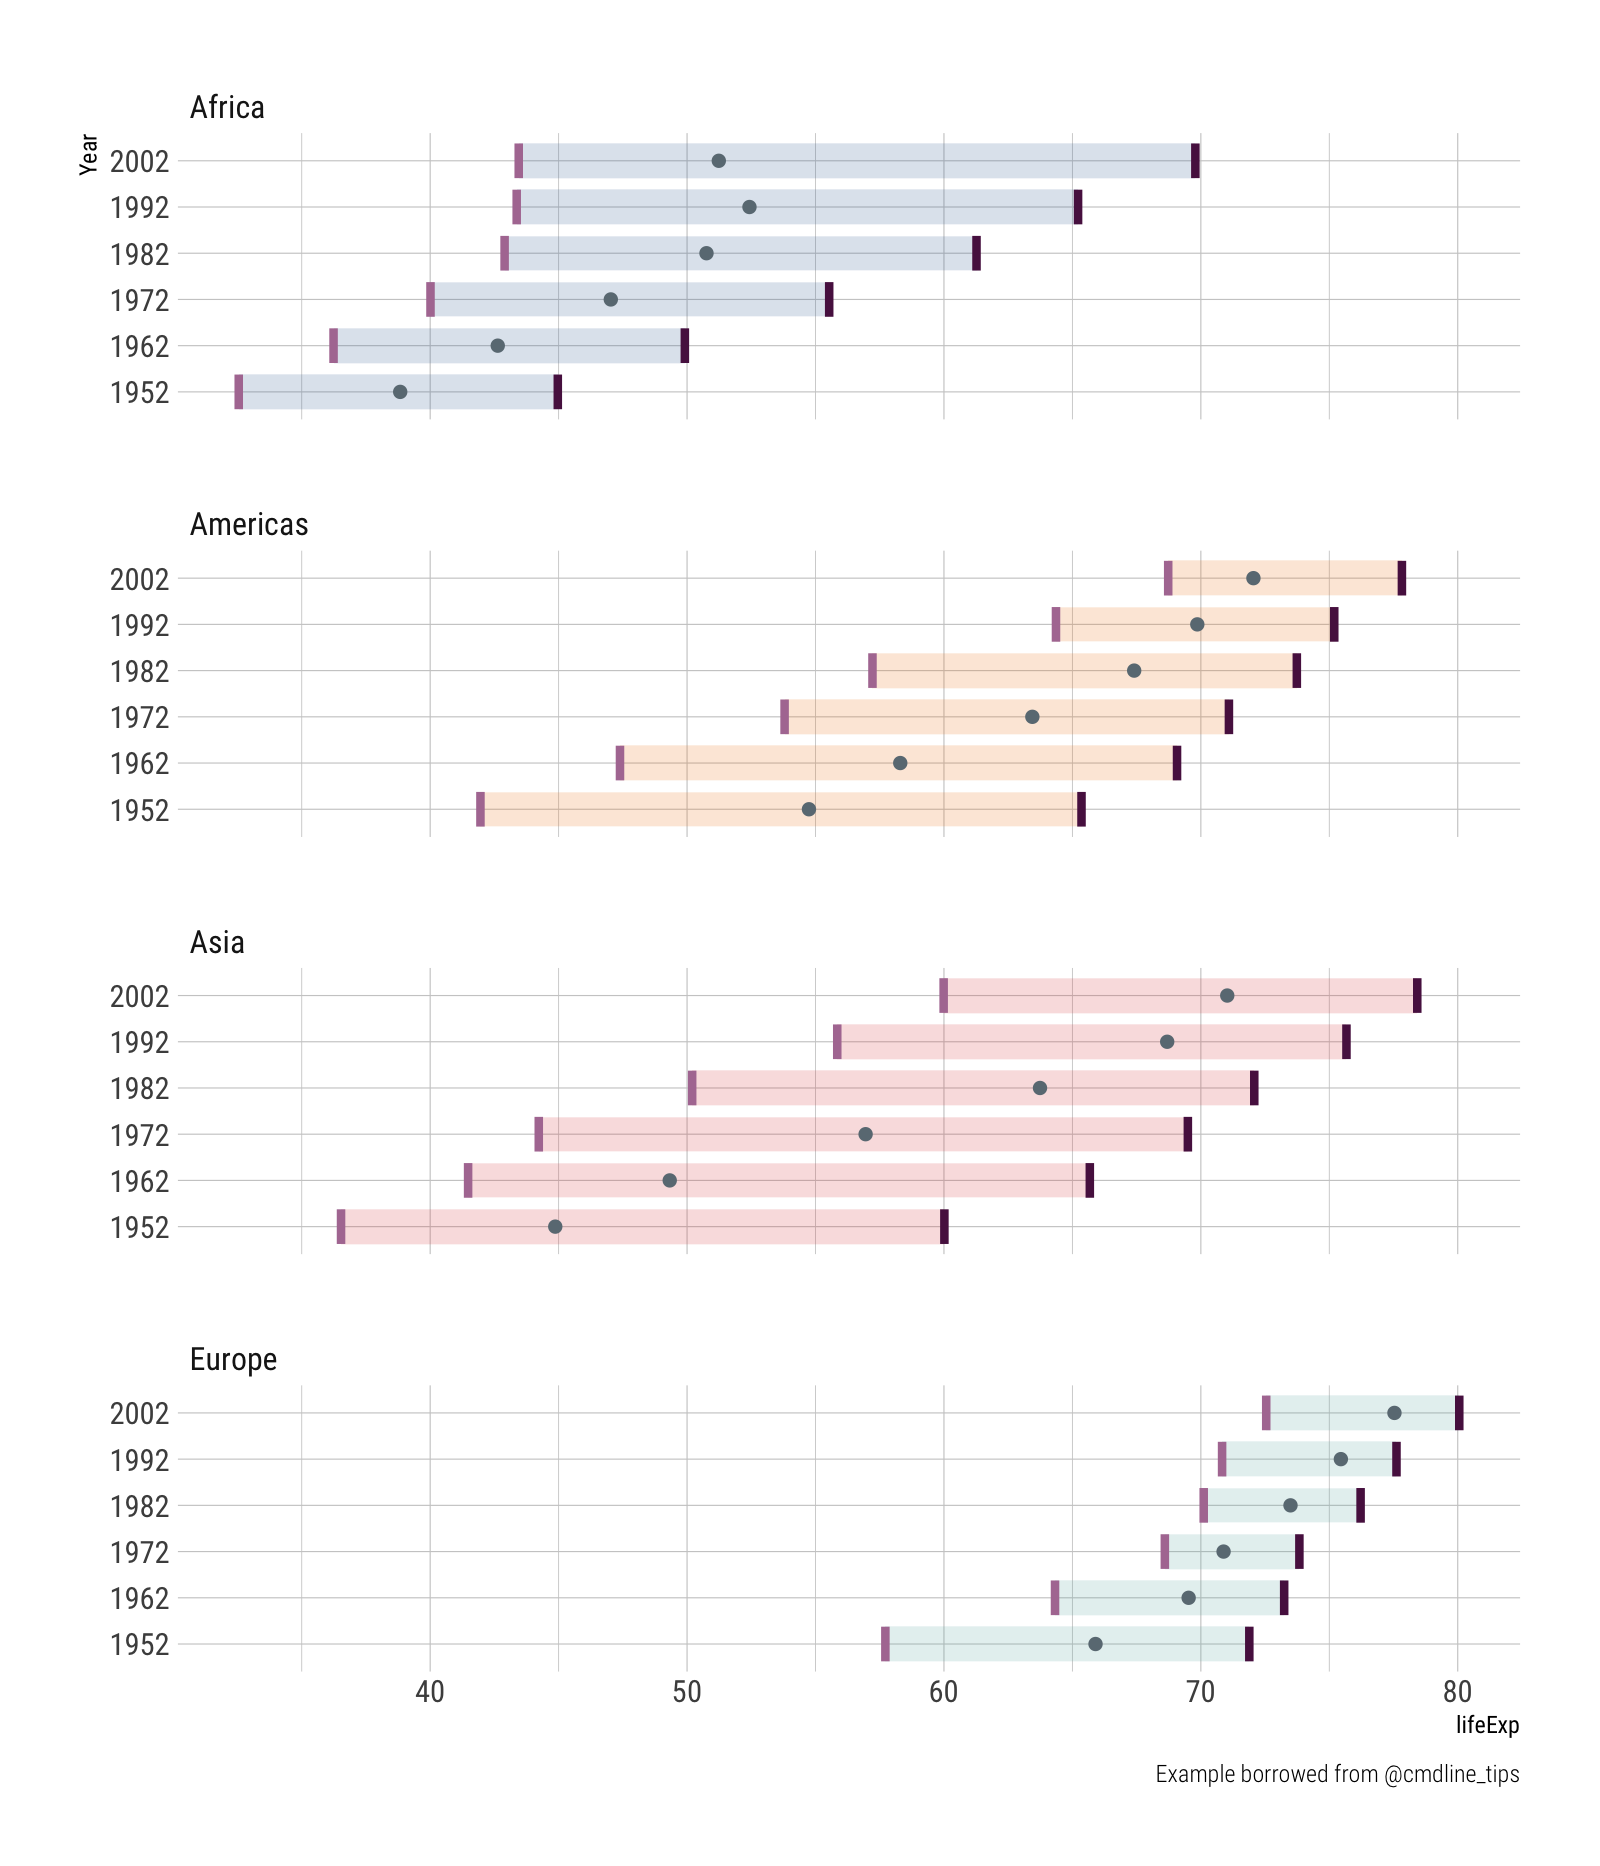
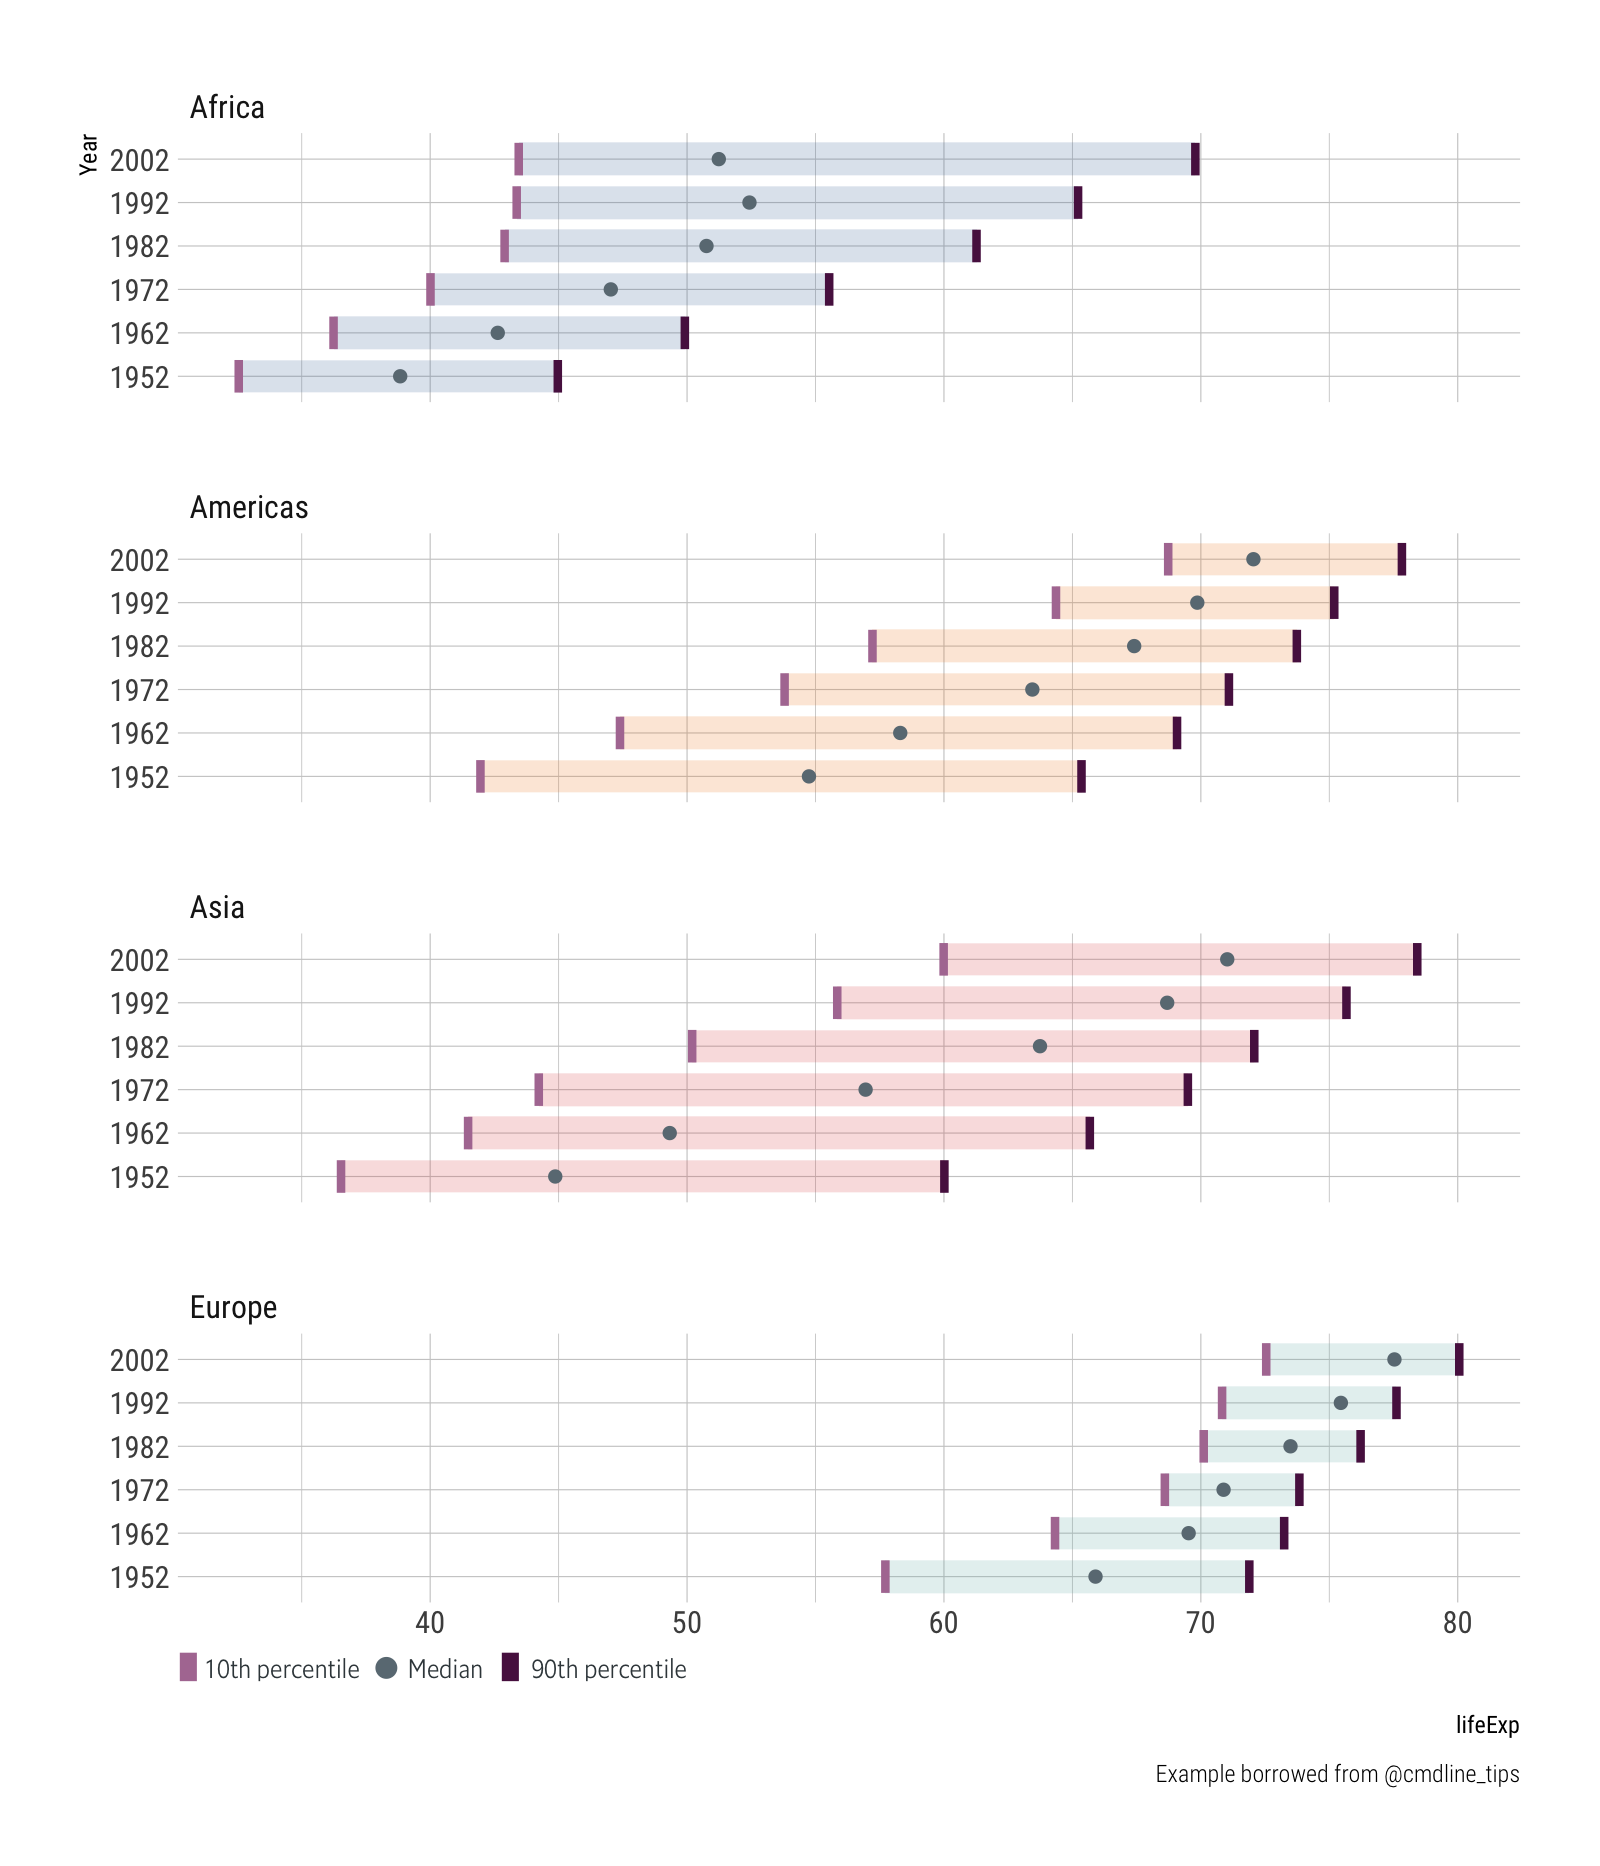
readme

diff --git a/README.md b/README.md
@@ -139,7 +139,17 @@ gapminder %>%
     x = "Year", caption = "Example borrowed from @cmdline_tips"
   ) +
   facet_wrap(~continent, nrow = 4) +
-  theme_ipsum_rc()
+  theme_ipsum_rc() -> gmgg
+
+grid.newpage()
+gmgg %>% 
+  add_econodist_legend(
+    econodist_legend_grob(
+      tenth_col = "#b07aa1", ninetieth_col = "#591a4f"
+    ), 
+    below = "axis-b-1-4"
+  ) %>% 
+  grid.draw()
 ```
 
 <img src="README_files/figure-gfm/gm-1.png" width="800" />
@@ -148,8 +158,8 @@ gapminder %>%
 
 | Lang | \# Files |  (%) | LoC |  (%) | Blank lines | (%) | \# Lines |  (%) |
 | :--- | -------: | ---: | --: | ---: | ----------: | --: | -------: | ---: |
-| R    |       10 | 0.91 | 377 | 0.86 |          71 | 0.7 |      125 | 0.75 |
-| Rmd  |        1 | 0.09 |  59 | 0.14 |          30 | 0.3 |       42 | 0.25 |
+| R    |       10 | 0.91 | 377 | 0.85 |          71 | 0.7 |      125 | 0.75 |
+| Rmd  |        1 | 0.09 |  68 | 0.15 |          30 | 0.3 |       42 | 0.25 |
 
 ## Code of Conduct
 
